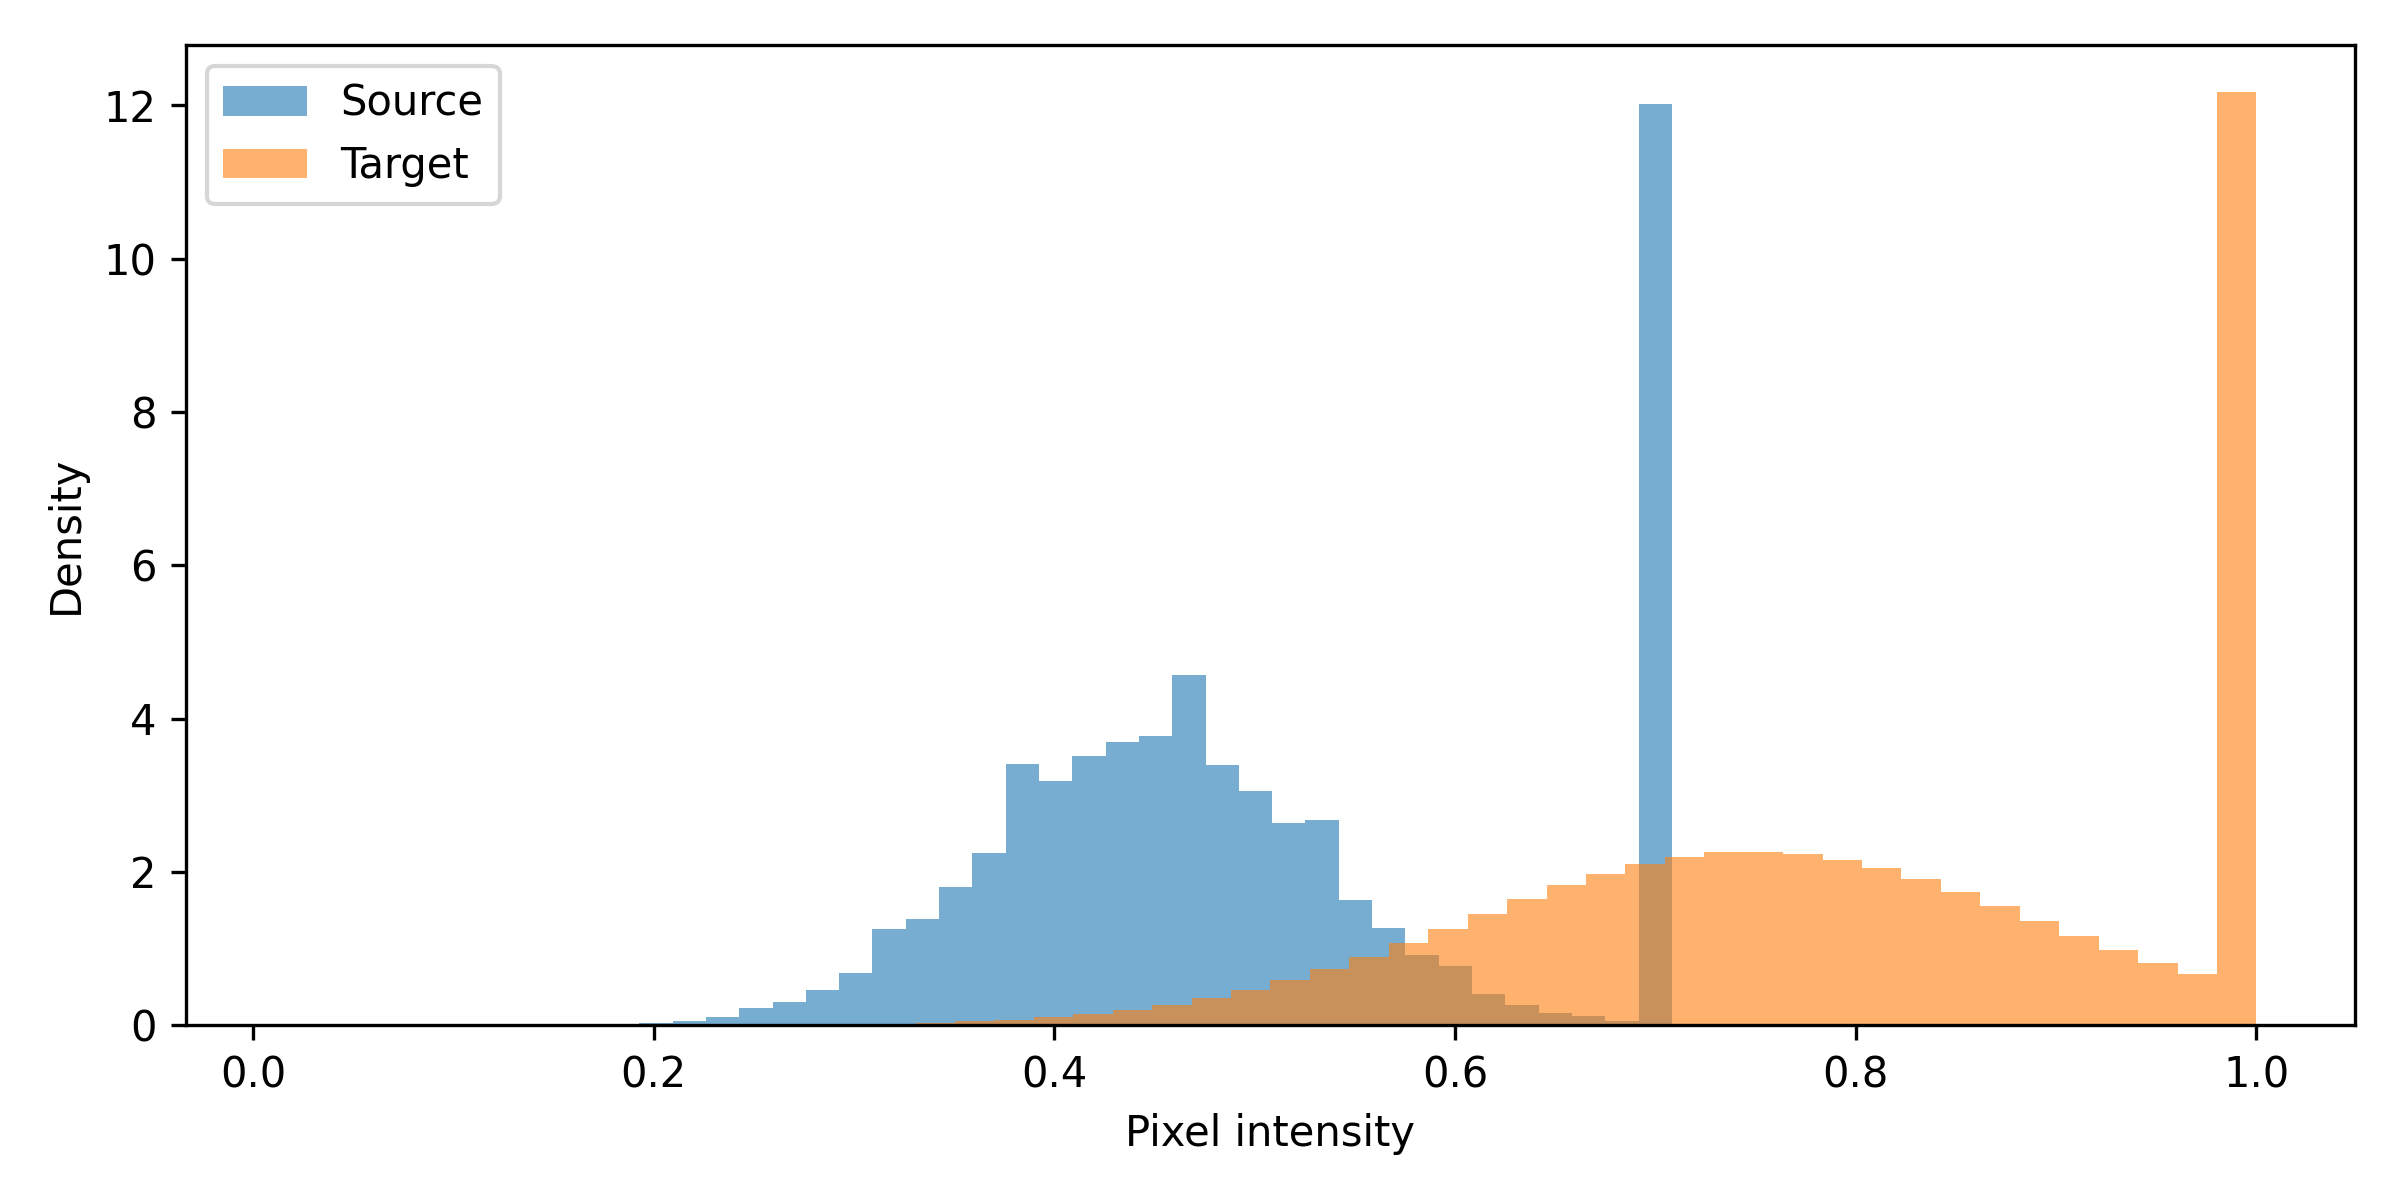
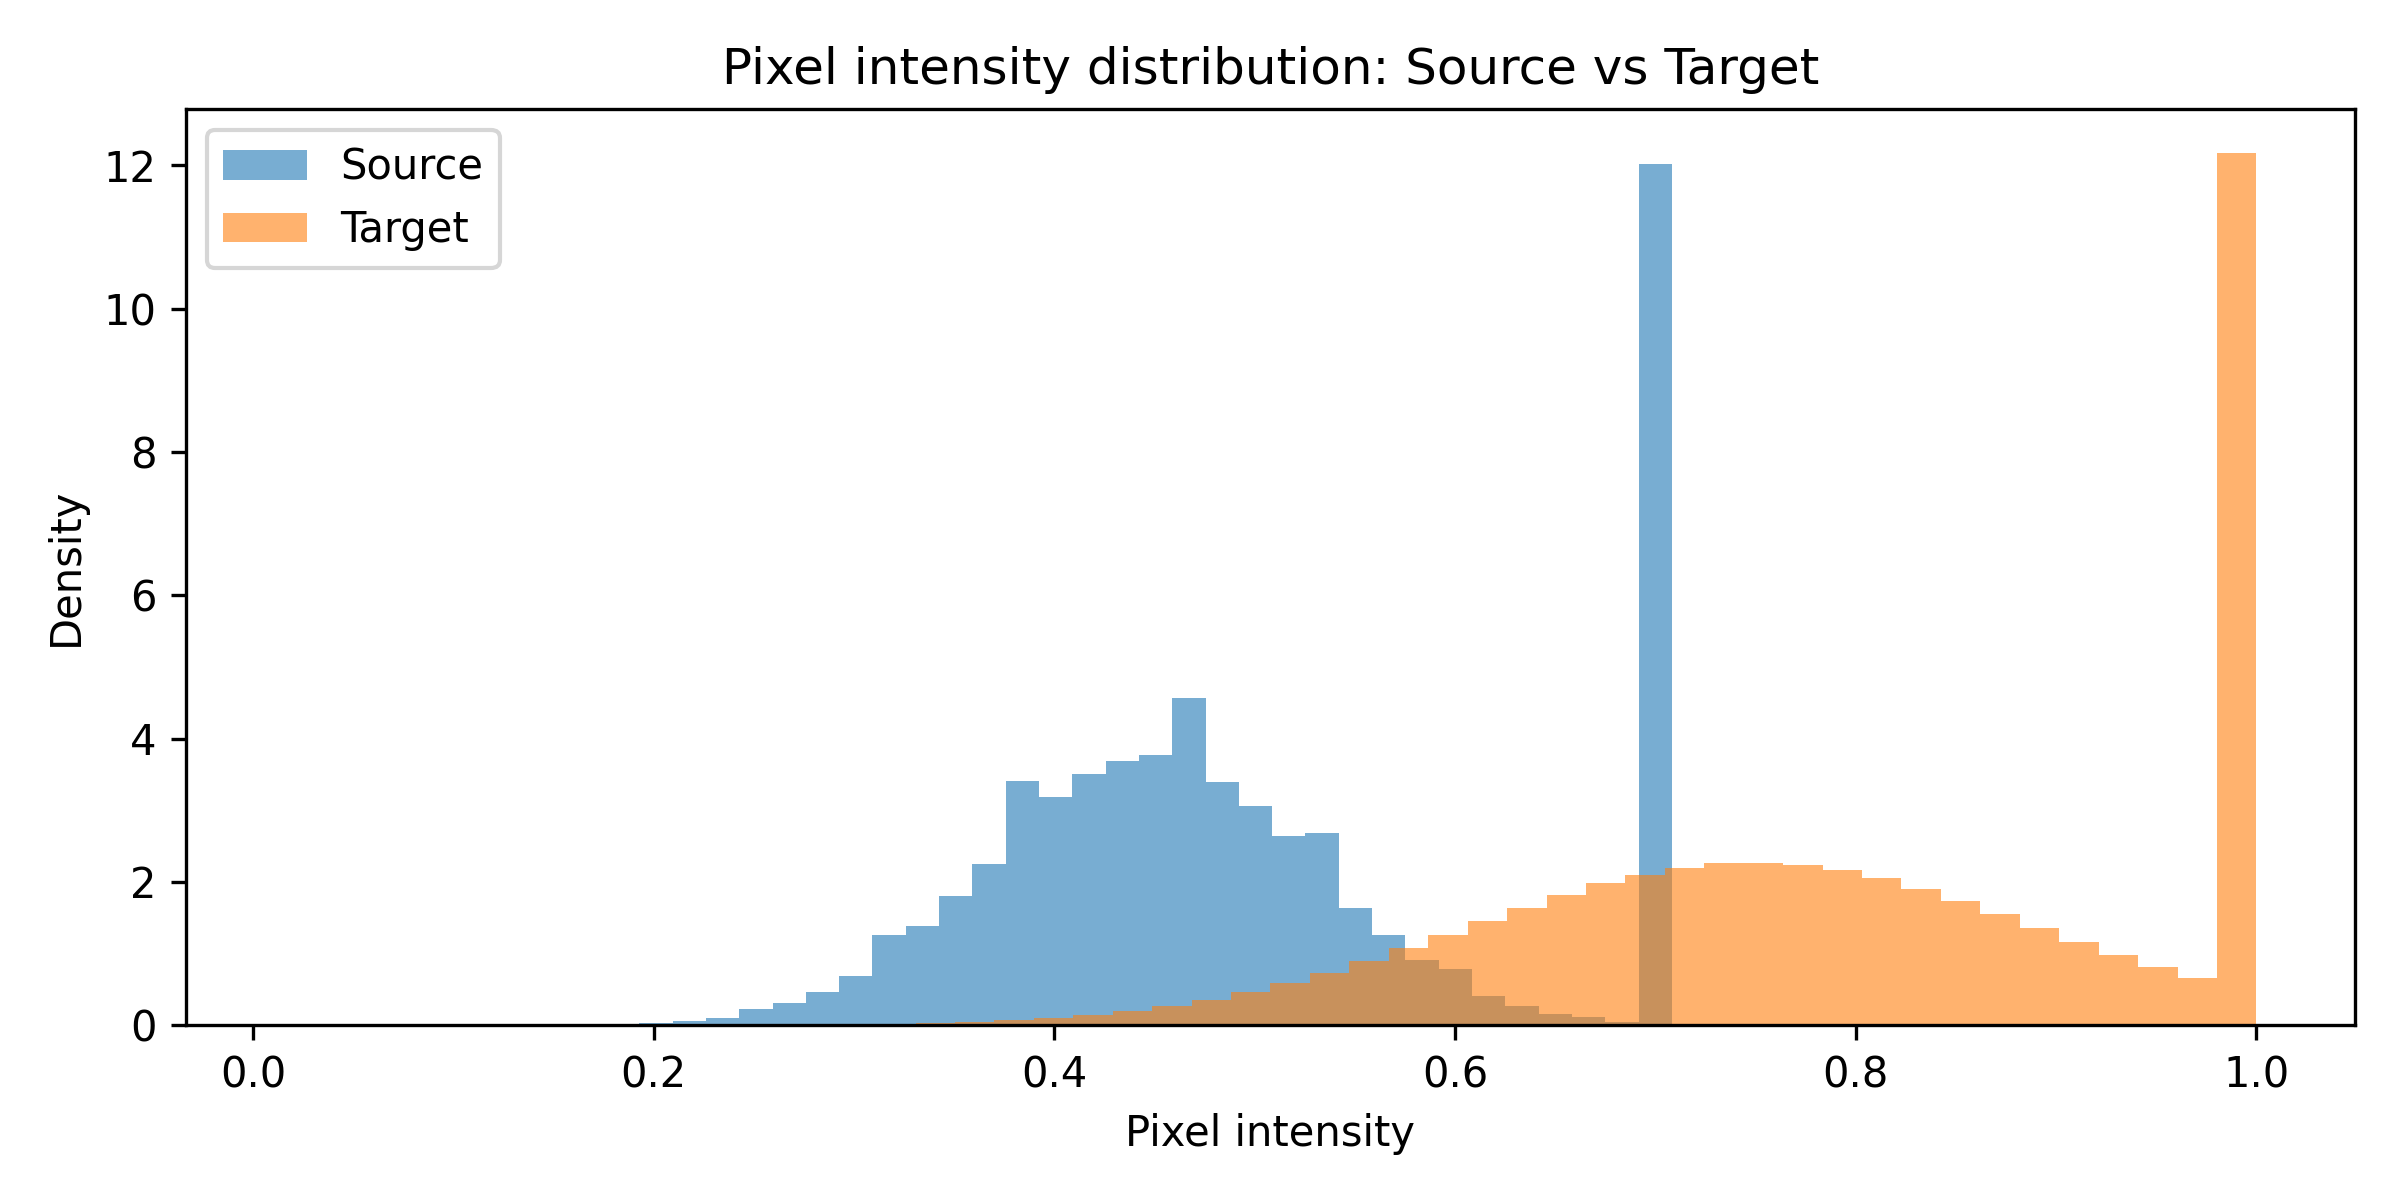
Update info

diff --git a/generate_dataset.py b/generate_dataset.py
@@ -204,11 +204,7 @@ if __name__ == '__main__':
     # domains so that the generated domain shift is fully reproducible.
     metadata = {
         'description': (
-            'Controlled dataset for AdaBN (Li et al., arXiv:1603.04779). '
-            'Domain shift is ONLY in pixel intensity statistics (mean, '
-            'variance). Shape class identity is identical across domains. '
-            'This isolates the property: BN statistics encode domain '
-            'identity, and mismatching them causes accuracy loss.'
+            'Control dataset for AdaBN. Pixel intensity mean and standard deviation only. All other factors are identical across domains.'
         ),
         'paper':        'Li et al., arXiv:1603.04779',
         'seed':         SEED,

diff --git a/README.md b/README.md
@@ -1,6 +1,6 @@
 # AdaBN Control Dataset
 
-Control dataset for testing the Batch Normalisation statistics domain-shift property.
+Control dataset for testing the role of Batch Normalisation statistics under domain shift.
 
 Based on: <br>
 Li et al., *Revisiting Batch Normalisation for Practical Domain Adaptation* — [arXiv:1603.04779](https://arxiv.org/abs/1603.04779)  
@@ -22,32 +22,32 @@ Wang et al., *Tent: Fully Test-Time Adaptation by Entropy Minimisation* — [arX
 
 ## Overview
 
-This repository provides a minimal, fully controlled image dataset for empirically testing a central hypothesis motivating AdaBN (Li et al., 2017):
+This repository provides a minimal, fully controlled image dataset for empirically testing a central hypothesis motivating AdaBN (Li et al., 2016):
 
-Label-related knowledge is stored in the weight matrices of each layer, whereas domain-related information is reflected in Batch Normalisation statistics. The per-channel running mean μ and variance σ² accumulated from the training data.
+Label-related knowledge is primarily stored in the network weights, whereas domain-related information is reflected in Batch Normalisation statistics, namely the running mean (μ) and variance (σ²) accumulated from training data.
 
-The dataset is designed so that exactly one confounder varies between the source and target domains: the pixel intensity statistics (μ, σ). Shape geometry, class labels, image resolution, and spatial layout are all held constant. This allows a clean, controlled test of whether mismatching BN statistics alone is sufficient to degrade accuracy and whether correcting them (AdaBN) recovers it.
+The dataset is designed so that exactly one confounder varies between the source and target domains: the pixel intensity statistics (mean and standard deviation). Shape geometry, class labels, image resolution, and spatial layout are all held constant. This allows a clean, controlled test of whether mismatched BN statistics contribute to accuracy degradation under domain shift and whether correcting them via AdaBN improves performance.
 
-The dataset is produced for AdaBN which can be used as a test-time normalisation baseline.
+The dataset was created to evaluate the AdaBN adaptation mechanism and to provide a controlled benchmark for comparison with test-time adaptation methods such as Tent.
 
 
 ## Motivation & Tested Property
 
 ### Background: Batch Normalisation and domain shift
 
-Batch Normalisation stabilises deep network training by keeping the input distribution of each layer approximately standard-Gaussian. It does so by storing running statistics (mean μ and variance σ²) computed from the training data, and using those statistics at test time to normalise activations.
+Batch Normalisation stabilises deep network training by normalising activations to have approximately zero mean and unit variance. It does so by storing running statistics (mean μ and variance σ²) computed from the training data, and using those statistics at test time to normalise activations.
 
-When training data (source domain) and test data (target domain) come from different distributions (different cameras, sensors, or lighting conditions) those stored statistics become mismatched to the incoming target activations at every layer of the network. This is the mechanism AdaBN identifies as the primary cause of accuracy degradation under domain shift.
+When training data (source domain) and test data (target domain) come from different distributions (different cameras, sensors, or lighting conditions) those stored statistics become mismatched to the incoming target activations at every layer of the network. AdaBN hypothesises that mismatched Batch Normalisation statistics contribute significantly to performance degradation under domain shift.
 
 ### The property this dataset tests
 
 | | |
 |---|---|
 | Property | Domain-specific information is reflected in BN statistics (μ, σ²). Mismatched source statistics contribute to domain shift, while re-estimating target statistics can reduce this mismatch. |
-| Single confounder | Pixel intensity distribution (μ_bg, σ_bg) only. All other factors are identical across domains. |
+| Single confounder | Pixel intensity mean and standard deviation only. All other factors are identical across domains. |
 | Control | Source-trained model on source test images → high accuracy. |
 | Problem | Source-trained model on target images (source BN stats) → degraded accuracy. |
-| Fix | Re-estimate BN stats from unlabelled target images (AdaBN) → accuracy recovered. |
+| Fix | Re-estimate BN stats from unlabelled target images (AdaBN) → accuracy improves. |
 
 ### Connection to AdaBN
 
@@ -61,7 +61,7 @@ Tent (Wang et al., 2021) extends AdaBN by additionally optimising the BN affine 
 
 The goal of this control dataset is to isolate the specific mechanism targeted by AdaBN: the mismatch between source-domain and target-domain Batch Normalisation statistics.
 
-Within the FRMDL control-dataset framework, the dataset is designed to evaluate whether:
+Within the control-dataset framework, the dataset is designed to evaluate whether:
 
 - a controlled intensity-based domain shift is a reasonable approximation of a real distribution shift (c1),
 - a standard BN-equipped CNN provides a reasonable baseline (c2),
@@ -116,7 +116,7 @@ This prevents brightness from leaking class information and ensures that shape r
 
 ### Dataset Statistics
 
-The generated dataset was validated using `validate_dataset.py`.
+The generated dataset was validated using `validate_dataset.py`, which computes empirical means, standard deviations, and class counts directly from the generated images.
 
 #### Global Statistics
 
@@ -168,7 +168,7 @@ A control dataset isolates one specific property while holding all other factors
 | Resolution | Yes |
 | Foreground contrast | Yes |
 | Mean intensity (μ_bg) | No — varies by domain |
-| Variance (σ_bg²) | No — varies by domain |
+| Standard deviation (σ_bg) | No — varies by domain |
 
 The source and target domains differ only in image intensity statistics. Any performance degradation therefore cannot be attributed to changes in semantics, class identity, geometry, or dataset composition. This allows a direct test of the AdaBN hypothesis that mismatched BN statistics contribute to domain shift.
 
@@ -276,7 +276,7 @@ print(X_src.shape, y_src.shape)
 Each image is produced by the following three-step procedure:
 
 **Step 1: Background**  
-A 32×32 float array is sampled pixel-wise from N(μ_bg, σ_bg), clipped to [0, 1]. The parameters (μ_bg, σ_bg) are the only quantity that differs between source and target domains.
+A 32×32 float array is sampled pixel-wise from a Gaussian distribution x ~ N(μ_bg, σ_bg²) where μ_bg denotes the mean intensity and σ_bg denotes the standard deviation. The parameters (μ_bg, σ_bg) are the only quantities that differ between source and target domains.
 
 **Step 2: Shape**  
 A foreground intensity is set to min(μ_bg + 0.25, 1). The geometric shape (determined by the class label) is rasterised at a randomised scale (radius ≈ 22–32% of image width) with a small random centre jitter (±8% of image width) to prevent the model exploiting a fixed spatial prior.
@@ -284,7 +284,7 @@ A foreground intensity is set to min(μ_bg + 0.25, 1). The geometric shape (dete
 **Step 3: Quantise and save**  
 The float array is scaled to [0, 255], cast to uint8, and saved as a greyscale PNG.
 
-**Design rationale:** The +0.25 foreground offset is applied in both domains, so the relative contrast of shape versus background is preserved across domains. The shape is always visible, but the absolute intensity of both foreground and background shifts together with μ_bg. The only systematic cue available for domain discrimination is the image intensity distribution. Since all classes share identical statistics within a domain, shape remains the only label-related signal while intensity statistics become the only domain-related signal.
+**Design rationale:** The +0.25 foreground offset is applied in both domains, so the relative contrast of shape versus background is preserved across domains. The shape is always visible, but the absolute intensity of both foreground and background shifts together with μ_bg. The only systematic difference between domains is the image intensity distribution. Both background and foreground intensities shift together, while shape geometry and class identity remain unchanged. Since all classes share identical statistics within a domain, shape remains the only label-related signal while intensity statistics become the only domain-related signal.
 
 
 ## Expected Experimental Outcomes
@@ -321,11 +321,11 @@ Recovery does not need to be perfect; however, a substantial improvement would s
 
 ### Connection to Tent
 
-Tent extends AdaBN by not only re-estimating Batch Normalisation statistics (μ, σ²), but also adapting the affine Batch Normalisation parameters (γ, β) through entropy minimisation.
+Tent extends AdaBN by re-estimating Batch Normalisation statistics (μ, σ²), and also adapting the affine Batch Normalisation parameters (γ, β) through entropy minimisation.
 
 Any remaining performance gap after AdaBN adaptation therefore motivates the additional optimisation performed by Tent.
 
 
 ## Limitations
 
-This dataset intentionally models a simplified form of domain shift. The source and target domains differ only in image intensity statistics. Real-world domain adaptation problems may additionally involve changes in texture, viewpoint, background, sensor characteristics, object appearance, or class frequencies. Consequently, the dataset evaluates a specific mechanism proposed by AdaBN rather than all forms of domain shift.
+This dataset intentionally models a simplified form of domain shift. The source and target domains differ only in image intensity statistics. Real-world domain adaptation problems may additionally involve changes in texture, viewpoint, background, sensor characteristics, object appearance, or class frequencies. Consequently, the dataset evaluates a specific mechanism proposed by AdaBN rather than all forms of domain shift. Furthermore, the dataset models domain shift through pixel-level intensity statistics, whereas AdaBN operates on activation statistics throughout a neural network.